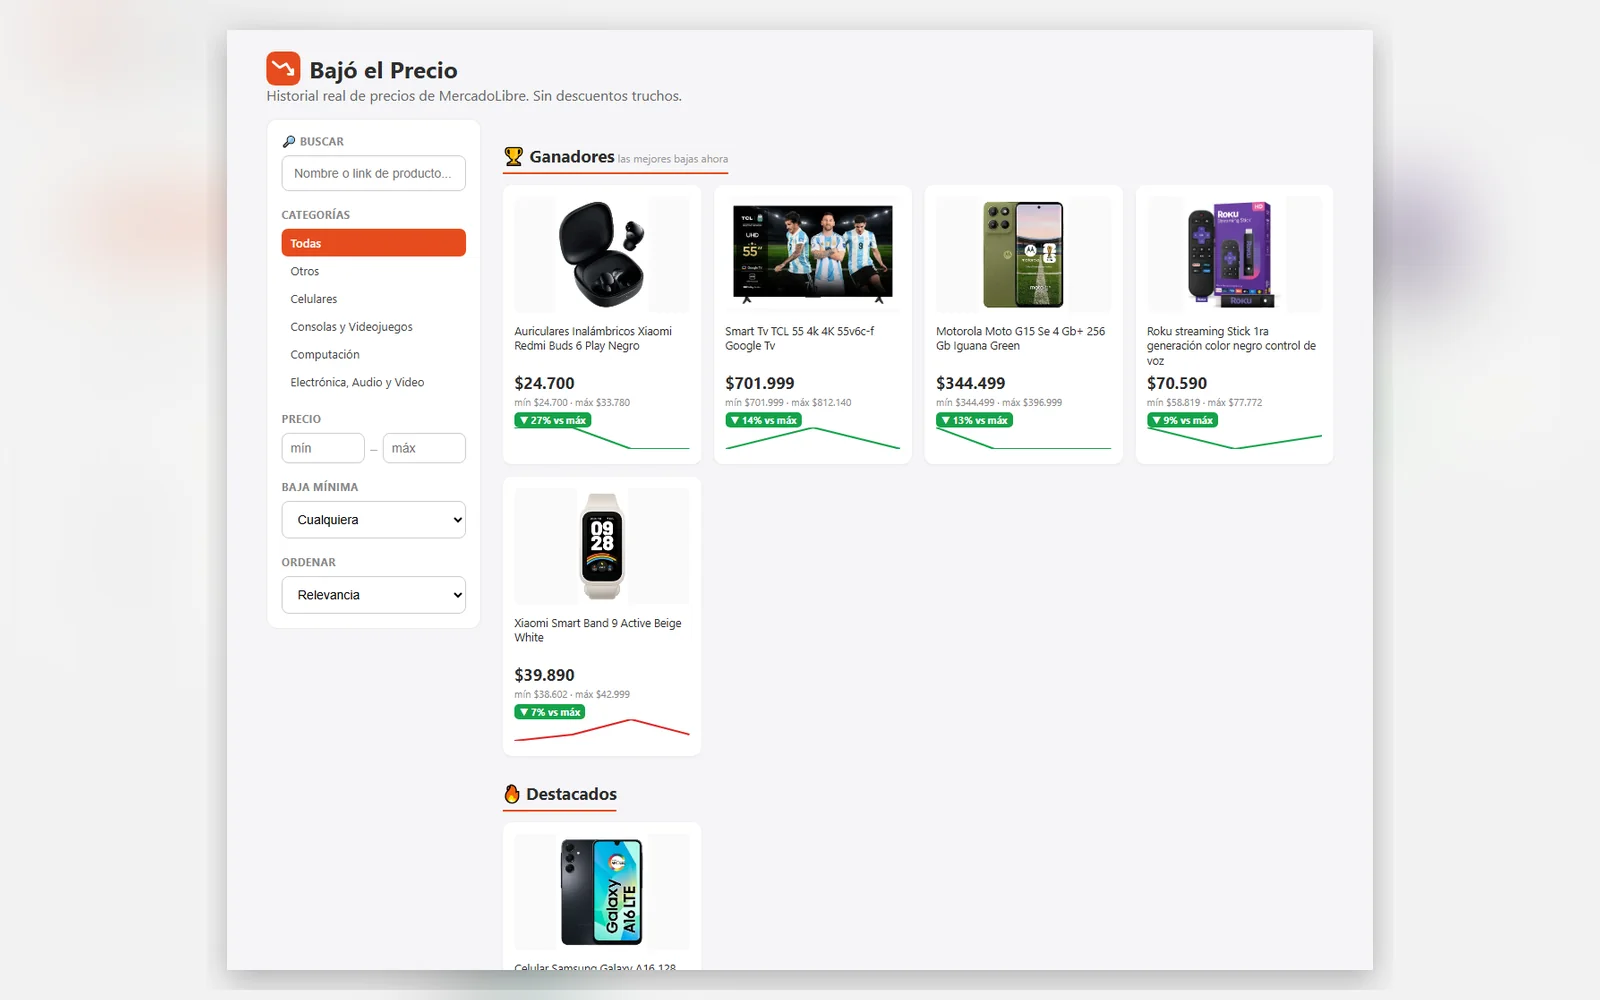
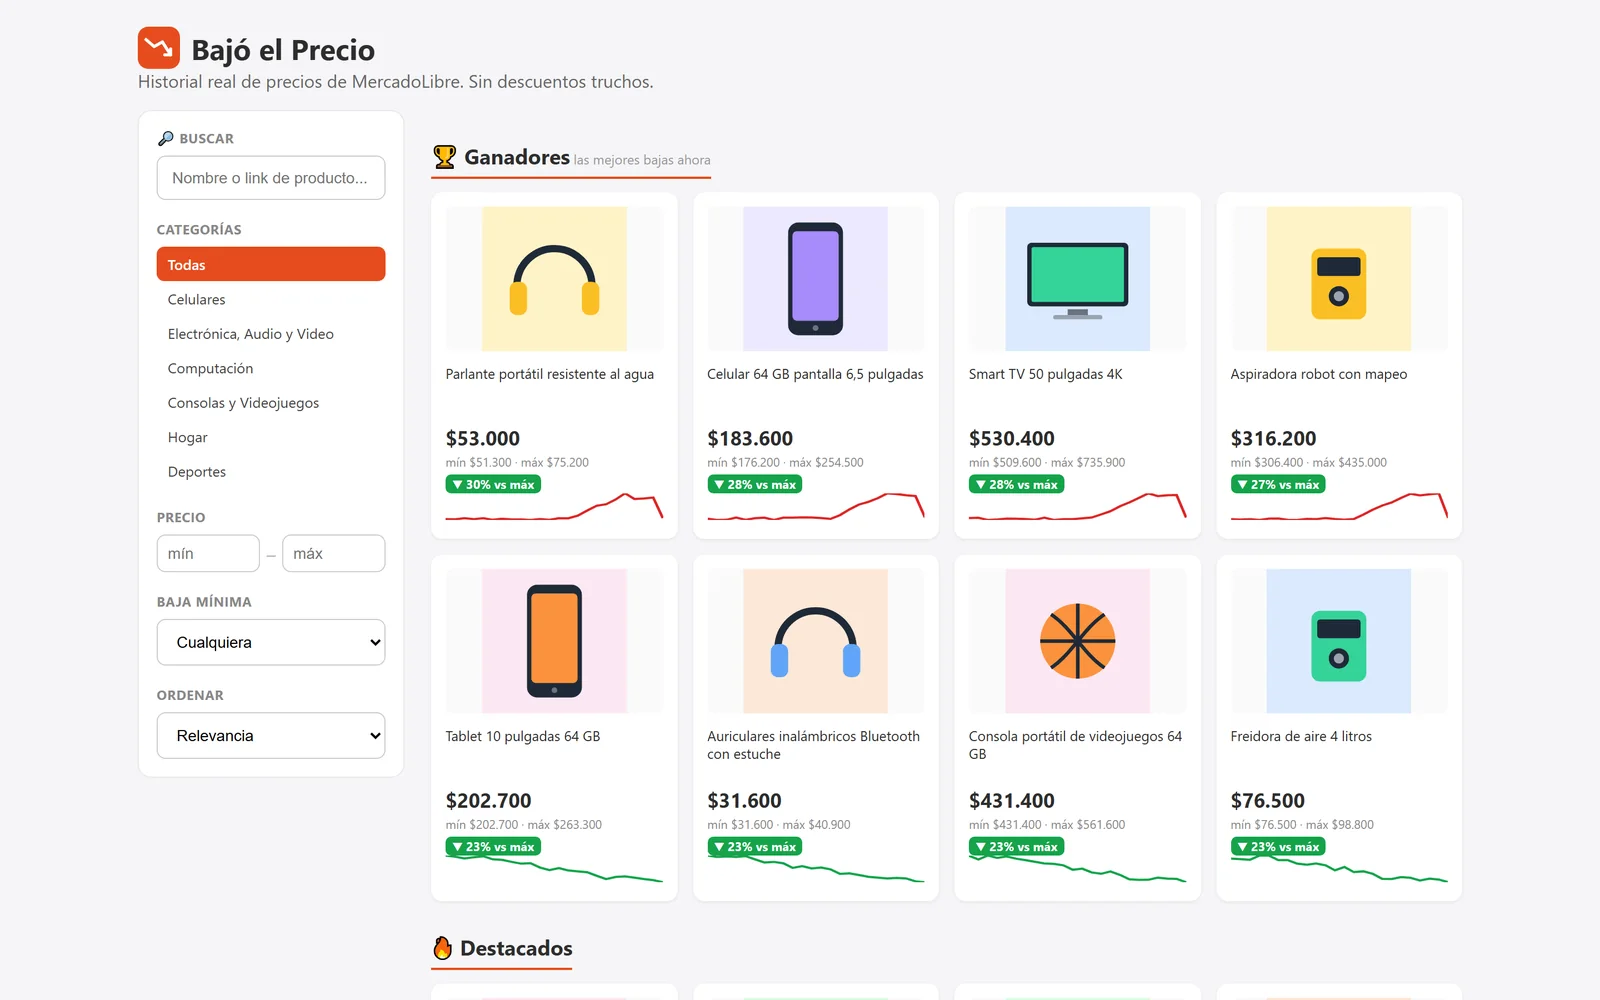
feat(projects): sharper, own screenshots for Bajó el Precio and MecánicOS (new name)
- Bajó el Precio: real app captured locally at 2x with sample data (no third-party photos).
- MecánicOS: recaptured after the rename, plus mobile views.

Claude-Session: https://claude.ai/code/session_01YW9EUcsrSqp2c9RZng6wkV

diff --git a/src/data/projectGalleries.ts b/src/data/projectGalleries.ts
@@ -17,24 +17,19 @@ export const bajoElPrecioGallery: ProjectGalleryGroup[] = [
     layout: "screen",
     shots: [
       shot(
-        "/projects/bajo-el-precio/historial.webp",
-        "Historial de precios de un celular con su veredicto",
-        "Pegás el link de un producto y ves cómo se movió su precio. Debajo del gráfico, un veredicto compara el precio de hoy contra el promedio y el mínimo de toda la serie acumulada.",
-      ),
-      shot(
         "/projects/bajo-el-precio/explorador.webp",
-        "Explorador de productos con los que más bajaron",
-        "El explorador muestra los productos que más bajaron y los más buscados, con filtros por categoría, condición y rango de precio.",
+        "Explorador de productos con su historial y la baja respecto del máximo",
+        "El explorador muestra cada producto con su historial en miniatura y cuánto bajó respecto de su máximo, con filtros por categoría, precio y baja mínima. Capturas con datos de muestra.",
       ),
       shot(
-        "/projects/bajo-el-precio/veredicto.webp",
-        "Detalle de un producto que está en su precio más bajo registrado",
-        "El detalle dice si el precio de hoy es el más bajo que se registró y deja pedir un aviso si baja. Es la misma regla que dispara las alertas de Telegram.",
+        "/projects/bajo-el-precio/falsa-oferta.webp",
+        "Detalle de un producto cuya oferta no es el mejor precio",
+        "Parece una oferta fuerte, pero el precio ya había estado más bajo semanas atrás. El veredicto lo avisa y recomienda no confiarse del descuento: es la regla central del proyecto.",
       ),
       shot(
-        "/projects/bajo-el-precio/producto.webp",
-        "Página pública de un producto con su historial",
-        "Cada producto tiene su propia página pública con el historial, pensada para que los buscadores la encuentren.",
+        "/projects/bajo-el-precio/baja-real.webp",
+        "Detalle de un producto en su precio más bajo registrado",
+        "Cuando el precio de hoy es el más bajo de toda la serie acumulada, el veredicto lo confirma y deja pedir un aviso si vuelve a bajar.",
       ),
     ],
   },
@@ -49,7 +44,7 @@ export const mecanicosGallery: ProjectGalleryGroup[] = [
       shot(
         "/projects/mecanicos/landing.webp",
         "Página principal de MecánicOS",
-        "Es el sitio público de MecánicOS (la landing todavía muestra el nombre anterior, TallerOS). Presenta las órdenes de trabajo digitales, el bot de WhatsApp para mecánicos y los avisos automáticos a los clientes.",
+        "Es el sitio público de MecánicOS. Presenta las órdenes de trabajo digitales, el bot de WhatsApp para mecánicos y los avisos automáticos a los clientes.",
       ),
       shot(
         "/projects/mecanicos/funciones.webp",
@@ -60,6 +55,23 @@ export const mecanicosGallery: ProjectGalleryGroup[] = [
         "/projects/mecanicos/talleres.webp",
         "Ventajas pensadas para talleres reales",
         "Pensado para talleres de barrio: corre en el navegador, tiene usuarios con permisos por rol, historial de cada vehículo, presupuesto en PDF y funciona desde el celular.",
+      ),
+    ],
+  },
+  {
+    id: "movil",
+    label: "En el celular",
+    layout: "phone",
+    shots: [
+      shot(
+        "/projects/mecanicos/movil-landing.webp",
+        "Página principal de MecánicOS en el celular",
+        "El sitio se adapta al celular, que es desde donde trabaja un taller.",
+      ),
+      shot(
+        "/projects/mecanicos/movil-funciones.webp",
+        "Funciones de MecánicOS en el celular",
+        "Las mismas funciones, pensadas para usarse desde el teléfono.",
       ),
     ],
   },
